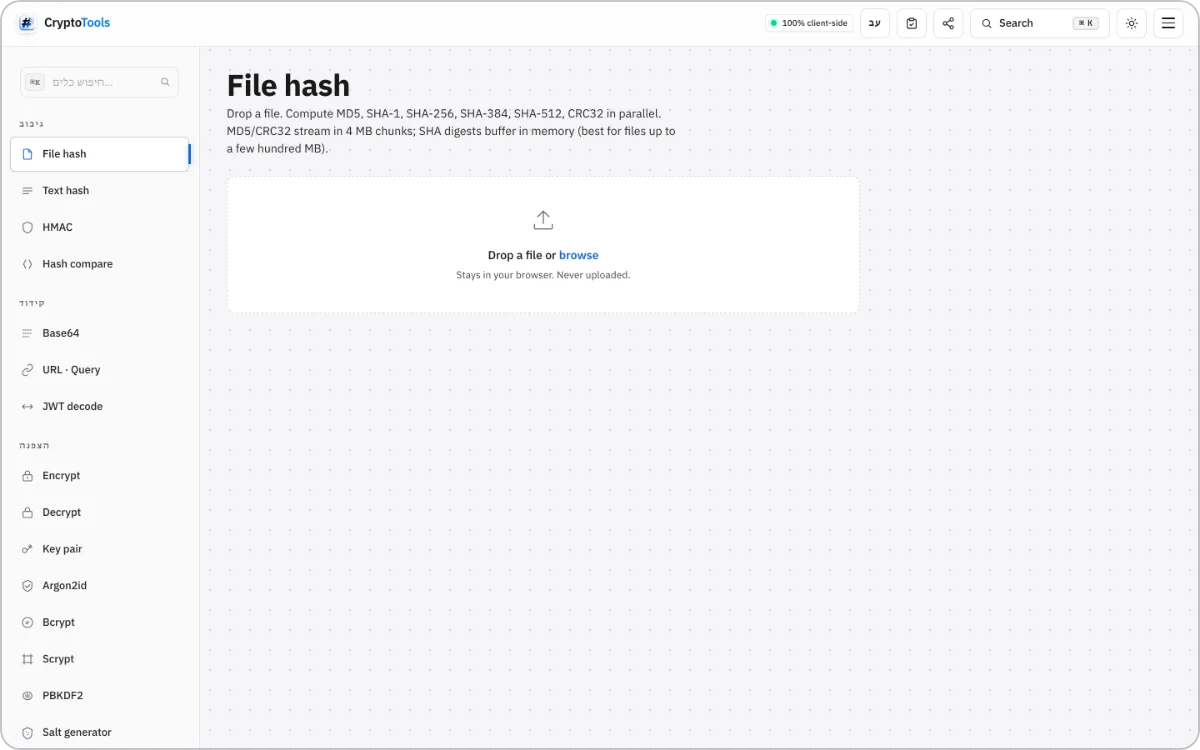
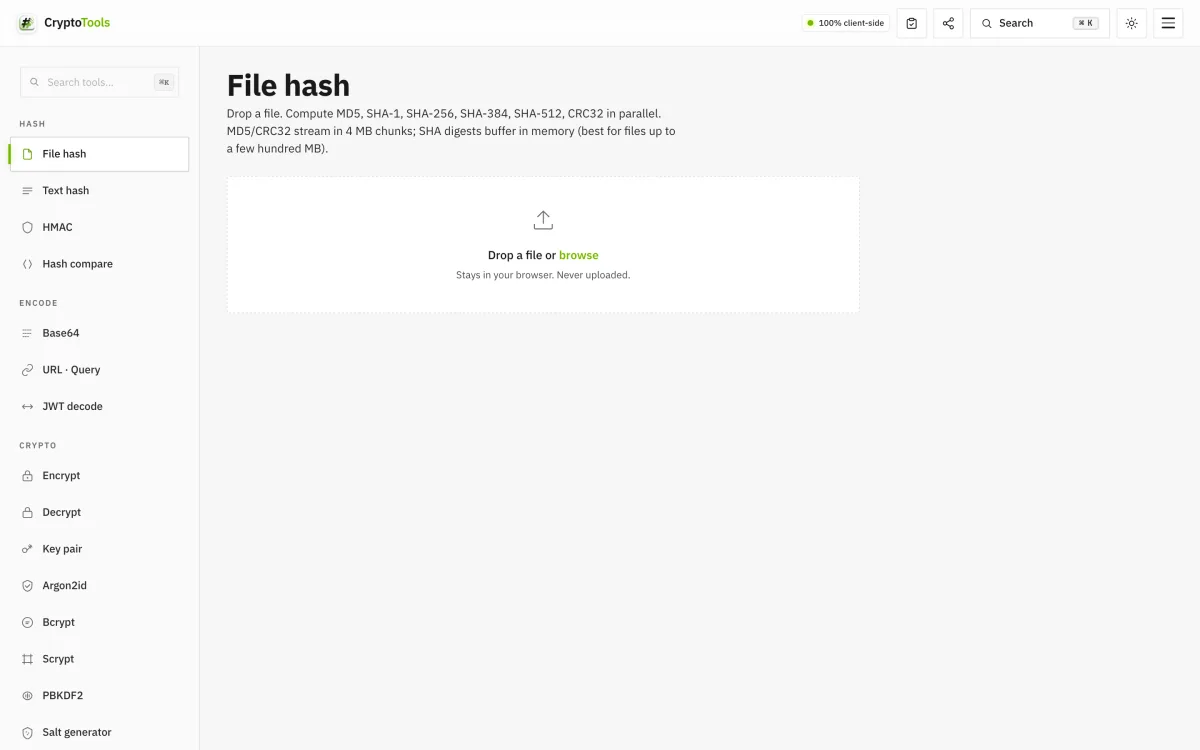
Update identity to shear559; refresh README facts (42 tools, PBKDF2 600k, Web security, NVIDIA Volt) and screenshots

diff --git a/README.md b/README.md
@@ -5,12 +5,12 @@
 **Live:** [cryptools-brown.vercel.app](https://cryptools-brown.vercel.app)
 
 <p align="center">
-  <img src="assets/preview.webp" alt="cryptools — the live site" width="100%">
+  <img src="assets/preview.webp" alt="Cryptools — the File hash tool on the live site" width="100%">
 </p>
 
-A single-page web app for the things developers reach for daily: hashing, encryption, key generation, JWT/PASETO, post-quantum cryptography, AI-prompt security, and 30+ more.
+A single-page web app for the things developers reach for daily: hashing, encryption, key generation, JWT/PASETO, post-quantum cryptography, web-security audits, encrypted prompt storage, and 30+ more.
 
-Built for engineers who care about **what happens to their data** — every operation runs client-side via Web Crypto and audited libraries. No upload. No analytics. No backend. No tracking.
+Built for engineers who care about **what happens to their data** — every operation runs client-side via Web Crypto, WASM, or audited JS libraries. No upload. No analytics. No backend. No tracking.
 
 ---
 
@@ -22,74 +22,85 @@ Cryptools is the alternative: every primitive runs in your tab via Web Crypto, W
 
 ---
 
+## Screenshots
+
+| Encrypt — AES-256-GCM with PBKDF2 600 000 iterations | Key pair — RSA-OAEP / RSA-PSS / ECDSA / ECDH |
+|---|---|
+| ![Encrypt tool: password, optional AAD, plaintext and the CTRYPT01 ciphertext blob](assets/encrypt-aes-gcm.webp) | ![Key pair tool: algorithm and size selectors, PEM output with Save .pem and Export JWK](assets/key-pair.webp) |
+
+<p align="center">
+  <img src="assets/mobile-home.webp" alt="Cryptools on a phone — the File hash tool" width="300">
+</p>
+
+---
+
 ## Capabilities
 
 ### Hashing
-File hash (4 MB chunked stream, multi-GB supported) · Text hash (live) · HMAC · Hash compare (constant-time-ish)
+File hash (MD5/CRC32 streamed in 4 MB chunks, SHA digests buffered — best for files up to a few hundred MB) · Text hash (live; hex / base64 / base64url output) · HMAC · Hash compare (constant-time)
 
 Supports: **MD5, SHA-1, SHA-256, SHA-384, SHA-512, SHA3-256, SHA3-512, Keccak-256 (Ethereum), CRC32**
 
 ### Encryption
-- **AES-256-GCM** password-based encrypt/decrypt (text + file) with PBKDF2 250 000 iter, optional **AAD** for context binding
-- **Multi-recipient encrypt** (age-style) — wrap a DEK for N RSA-OAEP public keys
-- **RAG vector encryption** — per-chunk HKDF + AES-GCM for client-encrypted embedding stores
-- **AES-KW** (RFC 3394) — key wrapping for JWE A*KW patterns
+- **AES-256-GCM** password-based encrypt/decrypt (text + file) with PBKDF2-SHA-256 600 000 iterations and optional **AAD** for context binding; output is a self-describing `CTRYPT01` blob (salt, IV, iteration count)
+- **Multi-recipient encrypt** — wrap a fresh AES-256 DEK for N RSA-OAEP public keys
+- **RAG vector encryption** — per-chunk AES-256-GCM keyed via HKDF, for client-encrypted embedding stores
+- **AES-KW** (RFC 3394 / NIST SP 800-38F) — key wrapping for JWE A*KW patterns
 
 ### Key derivation
-- **Argon2id** (RFC 9106) with optional pepper
-- **Scrypt** (RFC 7914) — N up to 256 MiB
-- **PBKDF2** (RFC 8018) — OWASP 2023+ defaults, PHC string output
+- **Argon2id** (RFC 9106, WASM) — OWASP 2023+ defaults (m=19 MiB, t=2, p=1), optional pepper
+- **Scrypt** (RFC 7914) — N up to 2^18 (256 MiB)
+- **PBKDF2** (RFC 8018) — 600 000-iteration SHA-256 default, PHC string output
 - **HKDF** (RFC 5869) — derive subkeys
 - **Bcrypt** with optional pepper
+- **Salt generator** — 8–64 bytes as raw, hex, base64, base64url or bcrypt/scrypt/Argon2 PHC
 
 ### Key pairs + signing
 - **Ed25519** (RFC 8032) sign + verify
-- **ECDSA** P-256 / P-384 / P-521
-- **RSA-OAEP** + **RSA-PSS** 2048/3072/4096
-- **ECDH** P-256 / P-384 / P-521
+- **RSA-OAEP** + **RSA-PSS** 2048/3072/4096 · **ECDSA** + **ECDH** P-256 / P-384 / P-521
 - PEM (SPKI + PKCS8) + JWK export
 
 ### Post-Quantum
 - **ML-KEM-768** (FIPS 203, ex-Kyber) — key encapsulation
 - **ML-DSA-65** (FIPS 204, ex-Dilithium) — signatures
 
+### Web security
+- **CSP · Security headers** — paste a Content-Security-Policy or a raw response-header block; parsed, graded and audited for the usual footguns
+- **X.509 · SSH keys** — decode a PEM certificate (subject, SAN, validity, fingerprints) or generate an Ed25519 SSH keypair in OpenSSH format
+- **DNS · Email auth** — SPF, DMARC, DKIM, MX and CAA for a domain, fetched over DNS-over-HTTPS and audited client-side
+
 ### Tokens / 2FA
 - **PASETO v4.public** (Ed25519) — modern JWT alternative
-- **JWT** decode + HMAC verify
-- **TOTP** (RFC 6238) — SHA-1/256/512, 6/7/8 digits, 15/30/60s period, with QR + live ±drift verify
-- **Shamir Secret Sharing** (k-of-n, GF(256)) — Vault-grade
+- **JWT** decode + HS256/384/512 sign and verify
+- **TOTP** (RFC 6238) — SHA-1/256/512, 6/7/8 digits, 15/30/60 s period, QR export + live drift-tolerant verify
+- **Shamir Secret Sharing** (k-of-n, GF(256))
 
 ### Generators
-- **Cryptographic tokens** w/ presets (Bearer / API key / Session / OTP / AES-256)
-- **Passphrases** from BIP-39 wordlist (11 bits/word)
+- **Tokens** with presets (Bearer / API key / Session / OTP / AES-256) plus NanoID, ULID, PKCE pair, JWT HS256 secret, AES-256-GCM key, CSRF state and `sk_live_`-style keys; live entropy meter
+- **Passwords** — generator with entropy meter + pronounceable mode, strength analyser, HIBP k-anonymity check
+- **Passphrases** from the 2048-word BIP-39 list (11 bits/word)
 - **UUIDs** v1, v3, v4, v5, v6, v7, v8, NIL, MAX + ULID + NanoID + CUID2
-- **Passwords** with entropy meter + pronounceable mode + HIBP k-anonymity check
 - **QR codes** with presets — WiFi, vCard, SMS, email, geo, calendar
-- **Salts** in 6 formats (hex/b64/b64url/bcrypt/argon2/raw)
-- **Random data** — IPv4/IPv6/MAC/port/email/name/hex/GPS/credit card (Luhn-valid)/dice/coin/country
+- **Random** — numbers in a range, bytes (hex / base64 / base64url), pick + shuffle — all from `crypto.getRandomValues`
 
 ### Converters
-- **JSON** format/minify/sort/validate
-- **YAML ↔ JSON**
-- **Chmod** interactive matrix
-- **CIDR / IP** calculator (IPv4 + IPv6 with BigInt math)
-- **Color** — hex/RGB/HSL/CMYK/LAB/LCH + palette harmonies + tints/shades + WCAG contrast (AA/AAA)
-- **Cron** with cronstrue human-readable + 5 next runs + graphical builder
-- **Number base** (bin/oct/dec/hex)
-- **String case** (10 outputs incl. slug)
-- **Date / Unix** with relative time
-- **HTML entities** (named/numeric/hex)
-- **Base64** / **URL & query** encode/decode
+- **Data convert** — lossless JSON ↔ YAML ↔ TOML ↔ XML with auto-detect; pretty-print or minify
+- **JSON → TypeScript / Zod / JSON Schema** from a pasted sample
+- **Cron** — human-readable description (cronstrue) + next 5 runs + 8 presets
+- **Timestamp / date** — Unix s/ms, ISO-8601, UTC, local and relative time, input auto-detected
+- **Number base** (bin / oct / dec / hex + custom radix)
+- **Case convert** — camel, Pascal, snake, kebab, CONSTANT, dot, path, Title, Sentence, lower, UPPER
+- **Base64** (text + file) · **URL & query** encode/decode with query-string table
+- **Network** — IPv4 subnet calculator, IPv6 expand/compress, MAC generator
 
 ### AI security
-- **Prompt Vault** — encrypted LLM prompt storage (AES-GCM + PBKDF2 250k)
-- **Token counter** — estimate + USD cost across 10 LLMs (GPT-4o, Claude Opus 4, Gemini 2 Pro, Llama 3.1, etc)
-- **AI-text detector** — flags Unicode-tag prompt-injection attacks (U+E0000-E007F), AI-cliche density, sentence-variance heuristics
-- **Markdown scanner** — 20+ rules for XSS, prompt injection, IDN homoglyphs, hidden chars, ChatML tokens
+- **Prompt Vault** — encrypted LLM prompt storage in `localStorage` (AES-256-GCM + PBKDF2 600 000 iterations); ★ Save buttons stash tokens, ciphertexts and keys into the same vault
+- **Markdown scanner** — 20+ rules for XSS, prompt injection, IDN homoglyphs, hidden characters, URL shorteners, base64 exfil blobs, ChatML tokens
 
 ### Developer tools
-- **Regex tester** with 30-pattern library + cheatsheet
-- **Text diff** with word-level intra-line highlighting
+- **Regex tester** — live matching with highlighted results, group capture, replace preview
+- **Text · JSON diff** — line diff; JSON mode normalizes key order and formatting so only real value changes show
+- **Recipe pipeline** — chain operations CyberChef-style (encode/decode, hash, HTML entities, …) with drag-to-reorder
 
 ---
 
@@ -103,6 +114,8 @@ Supports: **MD5, SHA-1, SHA-256, SHA-384, SHA-512, SHA3-256, SHA3-512, Keccak-25
 | Deep links | Every input syncs to URL | Rare |
 | Keyboard | ⌘K palette + ⌘⏎ run | Usually none |
 | Modern crypto | Post-quantum + Ed25519 + Argon2id + AAD | Often SHA-1 / MD5 only |
+
+Two lookups leave the browser, and only when you trigger them: the DNS / email-auth check (DNS-over-HTTPS) and the HIBP password check (k-anonymity — only the first 5 SHA-1 hex characters are sent).
 
 ---
 
@@ -122,8 +135,8 @@ Every tool input syncs to the URL so any configuration is shareable:
 
 ```
 ?tool=token&length=66&charset=hex&count=3
-?tool=color&c=10b981
-?tool=cron&e=*/5+*+*+*+*
+?tool=uuid&v=v7&count=5
+?tool=hmac&k=secret&m=hello
 ?tool=password&length=24&pron=1&live=1
 ```
 
@@ -131,9 +144,11 @@ Every tool input syncs to the URL so any configuration is shareable:
 
 ## Tech
 
-Vanilla HTML + CSS + JavaScript. No build step. No framework. Static-deployable anywhere.
+Vanilla HTML + CSS + JavaScript. No build step. No framework. Static-deployable anywhere; a service worker keeps the app usable offline after the first load.
 
-Web Crypto API + CDN libs (spark-md5, crc-32, js-sha3, qrcode, cronstrue, bcryptjs, js-yaml, scrypt-js, argon2-browser WASM). Post-quantum primitives via `@noble/post-quantum` dynamic ESM import.
+Web Crypto API plus SRI-pinned libraries (spark-md5, crc-32, js-sha3, qrcode, cronstrue, bcryptjs, js-yaml, scrypt-js, smol-toml, argon2-browser WASM), each shipped as a same-origin vendored copy with jsdelivr as the alternate source. Post-quantum primitives via `@noble/post-quantum` dynamic ESM import.
+
+Design: NVIDIA Volt — NVIDIA-green (`#76B900`) buttons and volt (`#CEFF00`) accents on true black, with a matching light theme.
 
 ---
 
@@ -143,8 +158,6 @@ All rights reserved. Source code is in a private repository. This public repo se
 
 ---
 
-Built by [@ArielShemesh1999](https://github.com/ArielShemesh1999). Design tokens derived from the Sculio editor (Lovable cream + Kraken precision, accent swapped to emerald).
+See also: [seal-provenance](https://github.com/shear559/seal-provenance) — the same author's paper and reference package on sealing digital files for verifiable provenance.
 
----
-
-The sealing design this implements is written up in full, with a runnable reference package, in [seal-provenance](https://github.com/ArielShemesh1999/seal-provenance).
+Source is private. Built by [@shear559](https://github.com/shear559).
